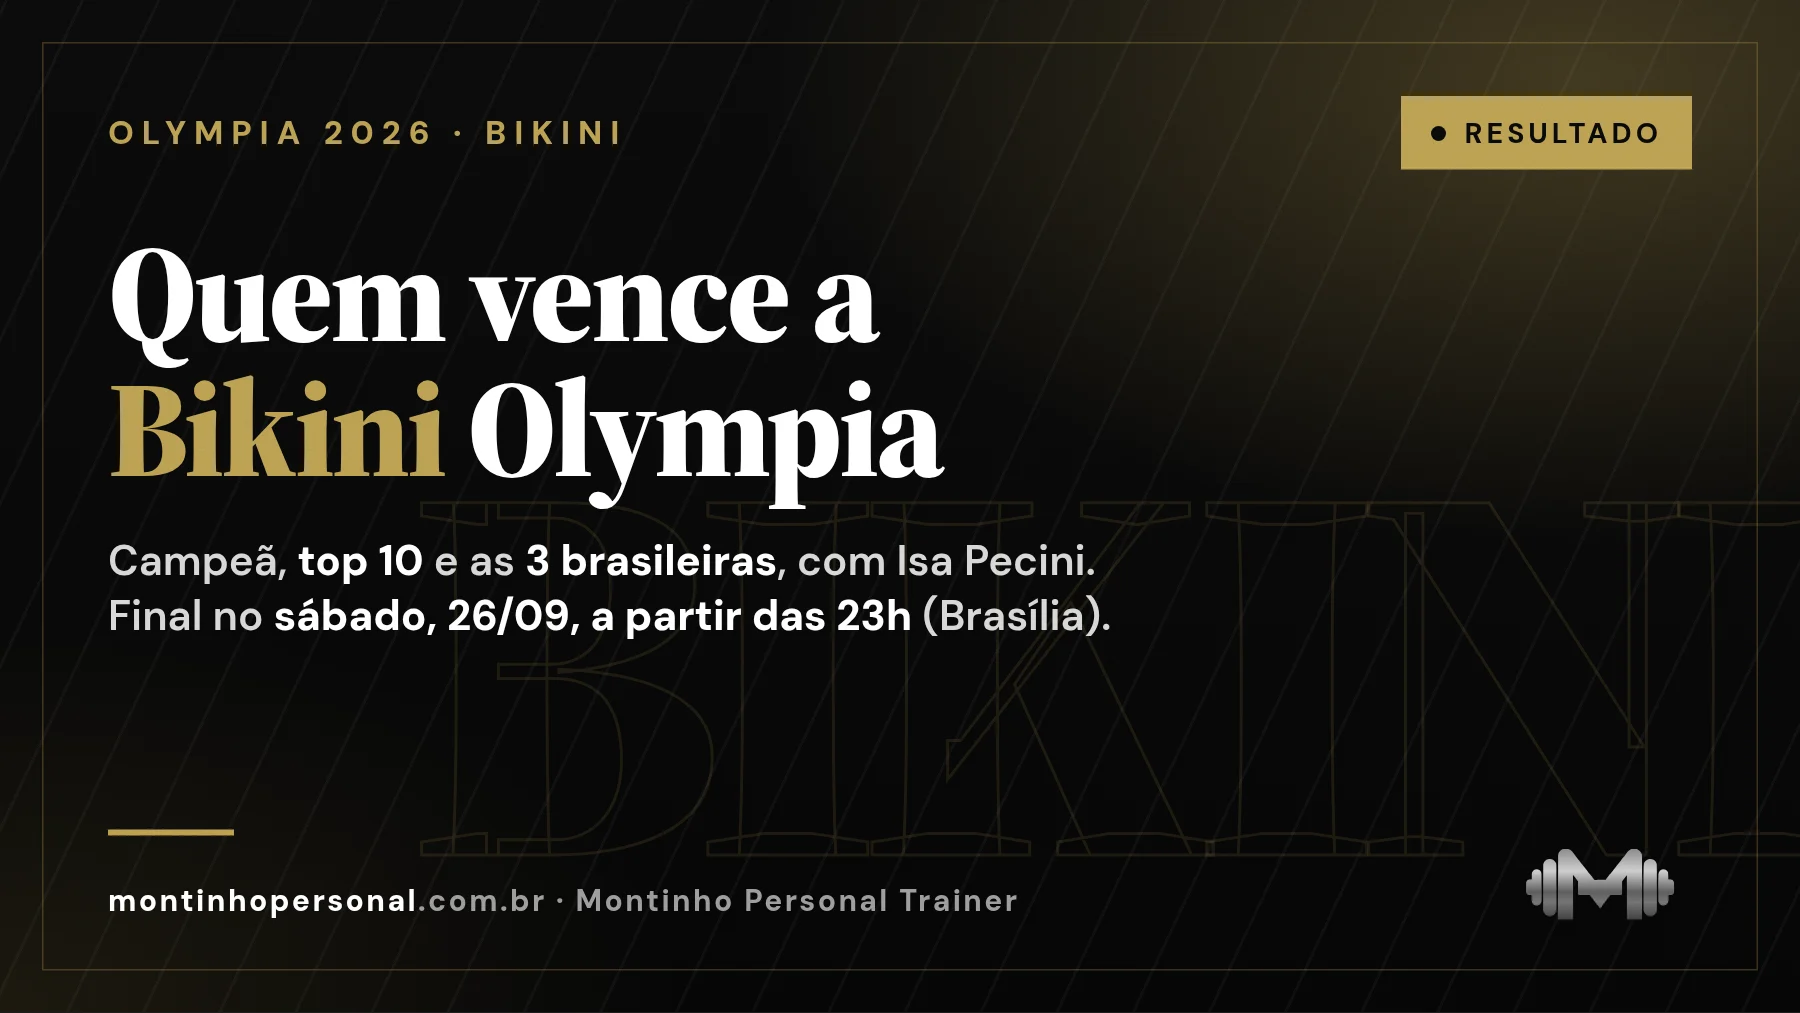
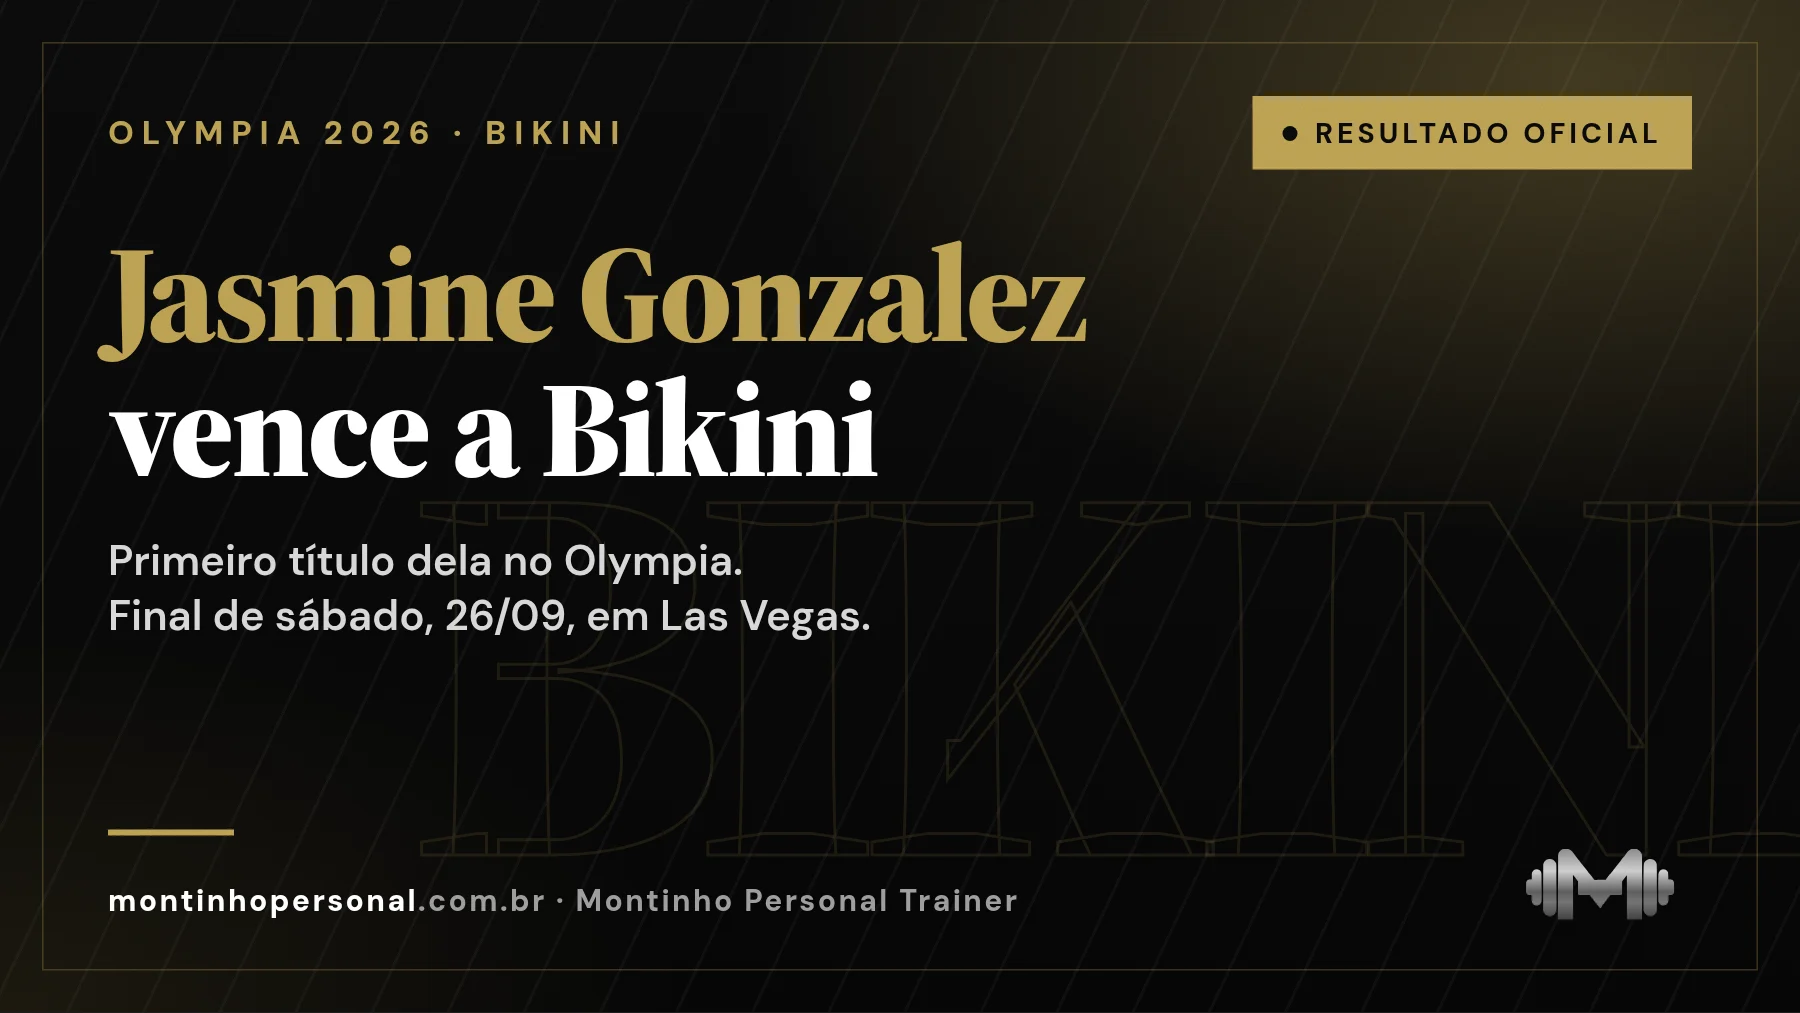
Olympia: consolidação pós-evento (estado D)
Open com top 5 (Jacked 4º, Burton 5º); Fit Model decidida (Shealynn
Burnett campeã, Gabriela Queiroz vice, Jane Jones 3ª); hub com todos os
campeões; painel Brasil e artigo de horário reescritos no passado; capas
de Classic, Wellness, Men's Physique, Bikini e Fit Model regeradas com o
resultado oficial. Pendências marcadas como a confirmar.

Claude-Session: https://claude.ai/code/session_01FouRqAub4iiTyoNafYmiNy

Changed region(s): [[0.0311, 0.2448, 0.6222, 0.6426], [0.6844, 0.0918, 0.9333, 0.1836]]

diff --git a/lib/olympia-brasil.ts b/lib/olympia-brasil.ts
@@ -75,7 +75,7 @@ export const CATEGORIAS: CategoriaOlympia[] = [
   { id: "bikini", nome: "Bikini", dia: "sabado", previas: "sabadoPrevias", final: "sabadoFinais", artigo: "resultado-bikini-olympia-2026", temBrasileiro: true, previasConcluidas: true, resultadoOficial: true, campeao: "Jasmine Gonzalez" },
   { id: "fitness", nome: "Fitness", dia: "sabado", previas: "sabadoPrevias", final: "sabadoFinais", previasConcluidas: true, resultadoOficial: true, campeao: "Michelle Fredua-Mensah" },
   // Estreia no Olympia: prévias E final na sessão de sábado de manhã.
-  { id: "fit-model", nome: "Fit Model", dia: "sabado", previas: "sabadoPrevias", final: "sabadoPrevias", artigo: "resultado-fit-model-olympia-2026", temBrasileiro: true, sessaoUnica: true },
+  { id: "fit-model", nome: "Fit Model", dia: "sabado", previas: "sabadoPrevias", final: "sabadoPrevias", artigo: "resultado-fit-model-olympia-2026", temBrasileiro: true, sessaoUnica: true, previasConcluidas: true, resultadoOficial: true, campeao: "Shealynn Burnett" },
 ];
 
 export const categoria = (id: string) => {
@@ -223,7 +223,7 @@ export const ATLETAS_BRASIL: AtletaBrasil[] = [
   a("Elisa Pecini", "bikini", "Brasil", "Campeã em 2019"),
   a("Nivea Campos", "bikini"),
   a("Bruna Toigo", "bikini"),
-  a("Gabriela Queiroz", "fit-model", "EUA", "Campeã do Wasatch Warrior 2026"),
+  { ...a("Gabriela Queiroz", "fit-model", "EUA", "Campeã do Wasatch Warrior 2026"), resultado: "2º lugar" },
 ];
 
 /** Classificados que não competem, com o motivo publicado. */

diff --git a/scripts/olympia-agenda-test.ts b/scripts/olympia-agenda-test.ts
@@ -30,7 +30,7 @@ const open = { ...categoria("open"), previasConcluidas: undefined, resultadoOfic
 ok(fase(open, at("2026-09-25T22:30:00-03:00")) === "previas", "Open: prévias na sessão de sexta à noite");
 
 // Fit Model: sessão única — o bloco começar não põe a categoria no palco
-const fm = categoria("fit-model");
+const fm = { ...categoria("fit-model"), previasConcluidas: undefined, resultadoOficial: undefined, campeao: undefined };
 ok(fase(fm, at("2026-09-26T13:29:00-03:00")) === "antes-previas", "Fit Model antes do bloco");
 ok(alvo(fm, at("2026-09-26T10:00:00-03:00"))?.bloco === "sabadoPrevias", "Fit Model: contagem para o bloco de sábado 13h30");
 ok(fase(fm, at("2026-09-26T13:30:00-03:00")) === "bloco", "Fit Model: bloco iniciado ≠ no palco");
